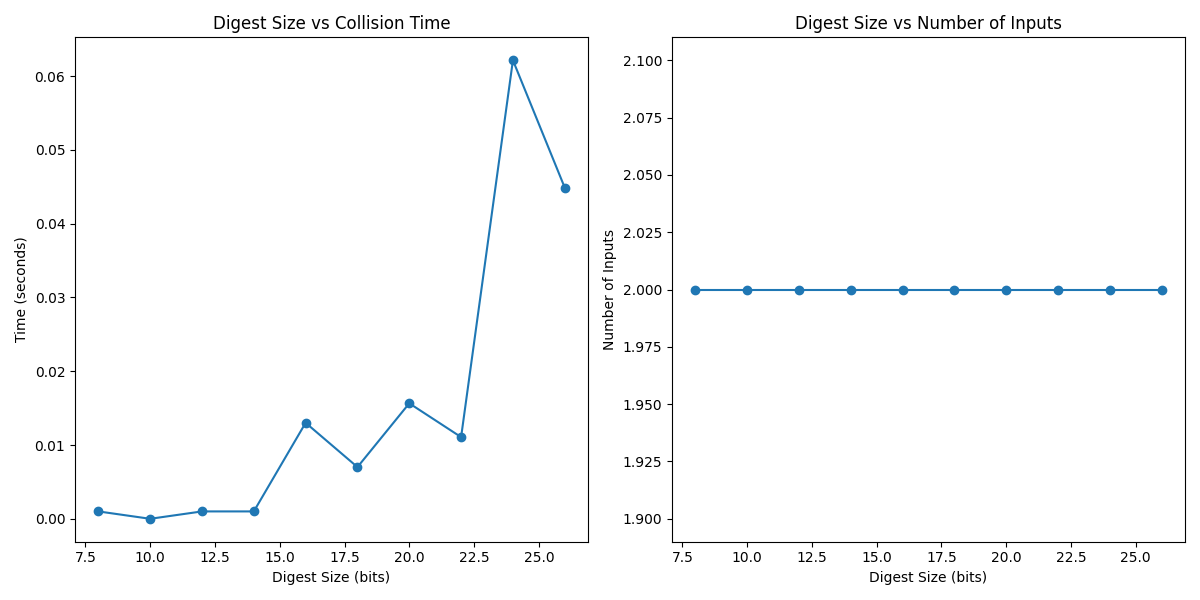
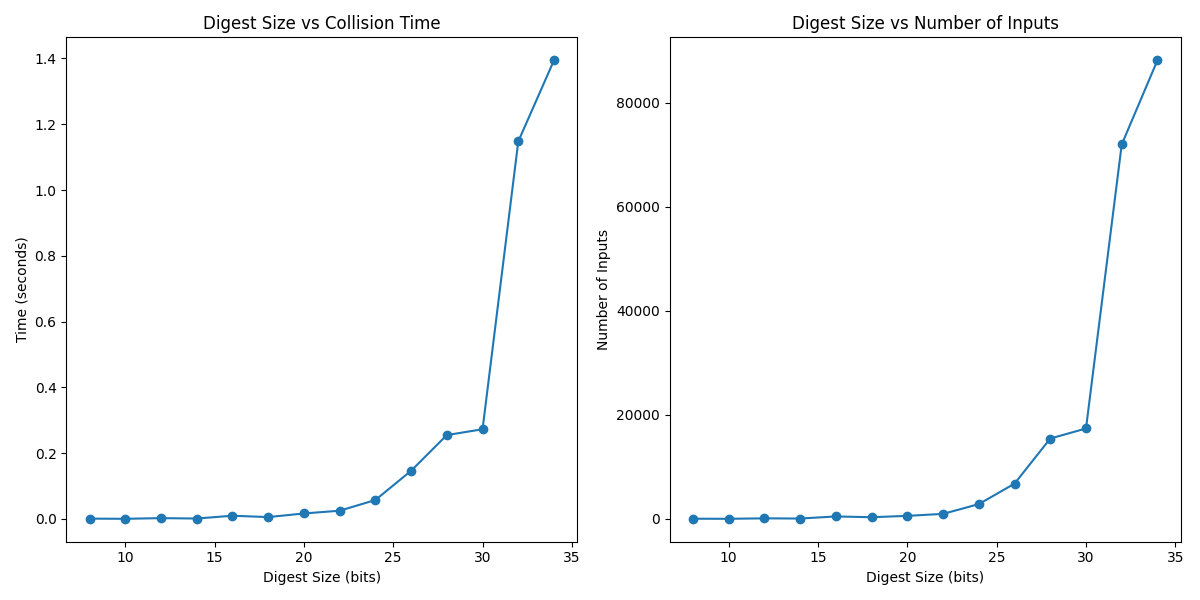
Task 1 graphs adjusted, Task 2 not cracking properly

diff --git a/Task2.py b/Task2.py
@@ -1,0 +1,53 @@
+import nltk
+# nltk.download('words')
+import bcrypt
+import time
+from nltk.corpus import words
+
+word_list = words.words() #Load word corpus
+#Filter the word list for words between lengths of 6 and 10
+filtered_words = [word.lower() for word in word_list if 6 <= len(word) <= 10]
+
+#Crack password function
+def crack_password(user_line):
+    # "User:$Algorithm$Workfactor$SaltHash"
+    user_parts = user_line.split('$')
+    username = user_parts[0].split(':')[0]
+    algorithm = user_parts[1]
+    workfactor = user_parts[2]
+    salthash = user_parts[3]
+
+    salt = salthash[:22].encode('utf-8')
+    stored_hash = user_parts[3][22:].encode('utf-8')
+
+    print(f"Cracking password for user: {username}")
+    start_time = time.time()
+
+    for password in filtered_words:
+        candidate_hash = bcrypt.hashpw(password.encode('utf-8'), f"${algorithm}${workfactor}${salt.decode()}".encode('utf-8'))
+        if candidate_hash == f"${algorithm}${workfactor}${salt.decode()}${stored_hash.decode()}".encode('utf-8'):
+            end_time = time.time()
+            elapsed_time = end_time - start_time
+            print(f"Password for {username} cracked: {password} \n Elapsed time: {elapsed_time:.2f} seconds)")
+            return username, password, elapsed_time
+        
+    return username, None, None
+
+#Crack shadow file function
+def shadow_file(sf):
+    results = []
+    with open(sf, 'r') as f:
+        for line in f.readlines():
+            if line.strip():
+                results.append(crack_password(line.strip()))
+    return results
+
+sf = 'shadow_file.txt'
+cracked_passwords = shadow_file(sf)
+
+# for username, password, elapsed_time in cracked_passwords:
+
+#     if password:
+#         print(f"User: {username}, Password: {password}, Elapsed time: {elapsed_time:.2f} seconds")
+#     else:
+#         print(f"User: {username}, Password not cracked")

diff --git a/Task1.py b/Task1.py
@@ -71,25 +71,27 @@ def task_1c():
     inputs_list = []
     
     for bits in range(8, 51, 2):
-        input1, input2, attempts, elapsed_time = find_collision(bits, 10000)
+        input1, input2, attempts, elapsed_time = find_collision(bits, 100000)
         if input1 and input2:
             bits_list.append(bits)
             time_list.append(elapsed_time)
-            inputs_list.append((input1, input2))
+            inputs_list.append(attempts)
             print(f"Collision found for {bits} bits: {input1} & {input2} in {elapsed_time:.2f}s after {attempts} attempts")
         else:
             print(f"TIMEOUT: No collision found for {bits} bits after {attempts} attempts")
     
     # Plotting results
     plt.figure(figsize=(12, 6))
+    #Plot1
     plt.subplot(1, 2, 1)
     plt.plot(bits_list, time_list, marker='o')
     plt.title('Digest Size vs Collision Time')
     plt.xlabel('Digest Size (bits)')
     plt.ylabel('Time (seconds)')
 
+    #Plot2
     plt.subplot(1, 2, 2)
-    plt.plot(bits_list, [len(inputs) for inputs in inputs_list], marker='o')
+    plt.plot(bits_list, inputs_list, marker='o')
     plt.title('Digest Size vs Number of Inputs')
     plt.xlabel('Digest Size (bits)')
     plt.ylabel('Number of Inputs')
